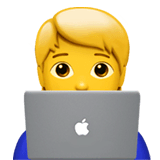
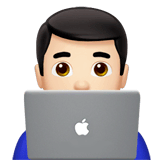
trivial note update

Changed region(s): [[0.1875, 0.0312, 0.8125, 0.5938], [0.0625, 0.9688, 0.0938, 1.0]]

diff --git a/src/pages/index.tsx b/src/pages/index.tsx
@@ -71,7 +71,7 @@ const HeroText = () => {
             })}
             photo={TechnologistEmoji}
             photoAlt={translate({
-              message: '🧑🏻💻',
+              message: '👨🏻💻',
             })}
             showByDefault="emoji"
           />

diff --git a/Brain/Journals/2022-08-04.md b/Brain/Journals/2022-08-04.md
@@ -4,6 +4,18 @@ date: '2022-08-04'
 slug: '/2022-08-04'
 ---
 
+## Work Research
+
+React Flip Toolkit List Shuffle를 띄우는 중이다.
+다음 커밋에서 React App을 렌더링하는 것까지는 성공했다.
+
+- [anaclumos/worker-dom at f8c18c2f6d8ab92b17eb17e18f647388e5129917](https://github.com/anaclumos/worker-dom/tree/f8c18c2f6d8ab92b17eb17e18f647388e5129917)
+
+다만 Shuffle 버튼을 눌러도 Elements들이 움직이지는 않는다.
+`demo` 폴더의 해당 React 앱에 들어가서 `npm run build` 해주고 `build/index.html`에서 첨부되는 React `script`를 삭제해야한다.
+
+![[Pasted image 20220804181751.png]]
+
 ## Personal Research
 
 ### Explored [[SwiftUI]].

diff --git a/Brain/Hey.md b/Brain/Hey.md
@@ -1,6 +1,6 @@
 ---
-title: 'Hey'
-slug: '/hey'
+title: 'Hey 👋🏻'
+slug: '/'
 ---
 
 > What does moving from mindless consumption to mindful creation look like? — [[Building a Second Brain|BASB]]
